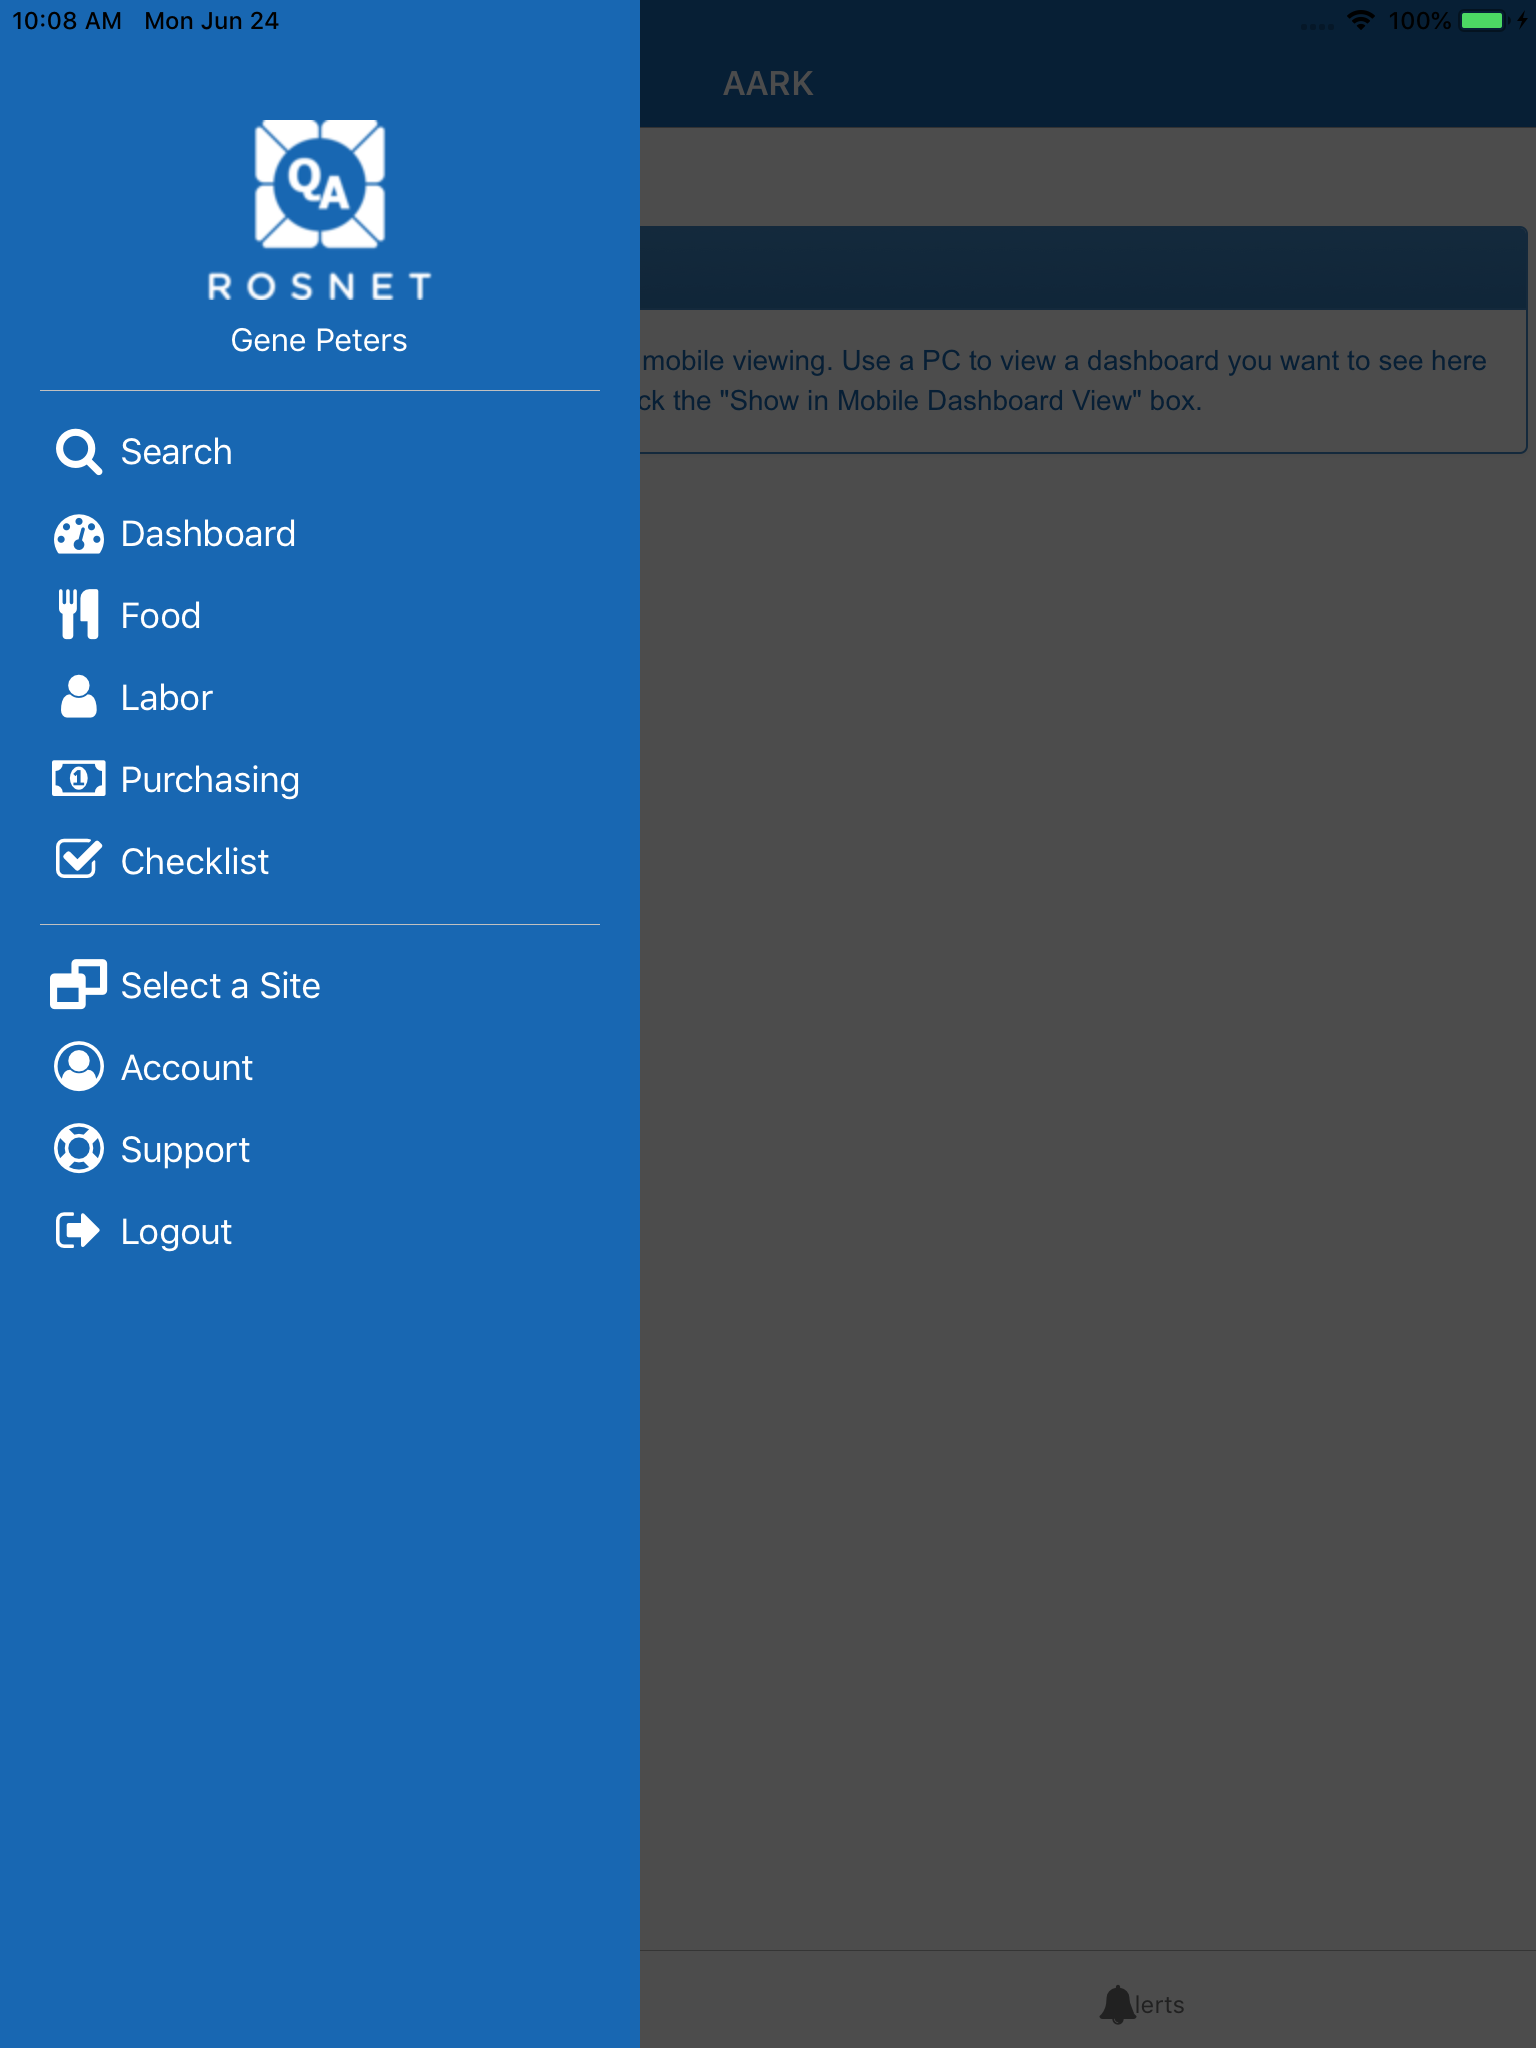
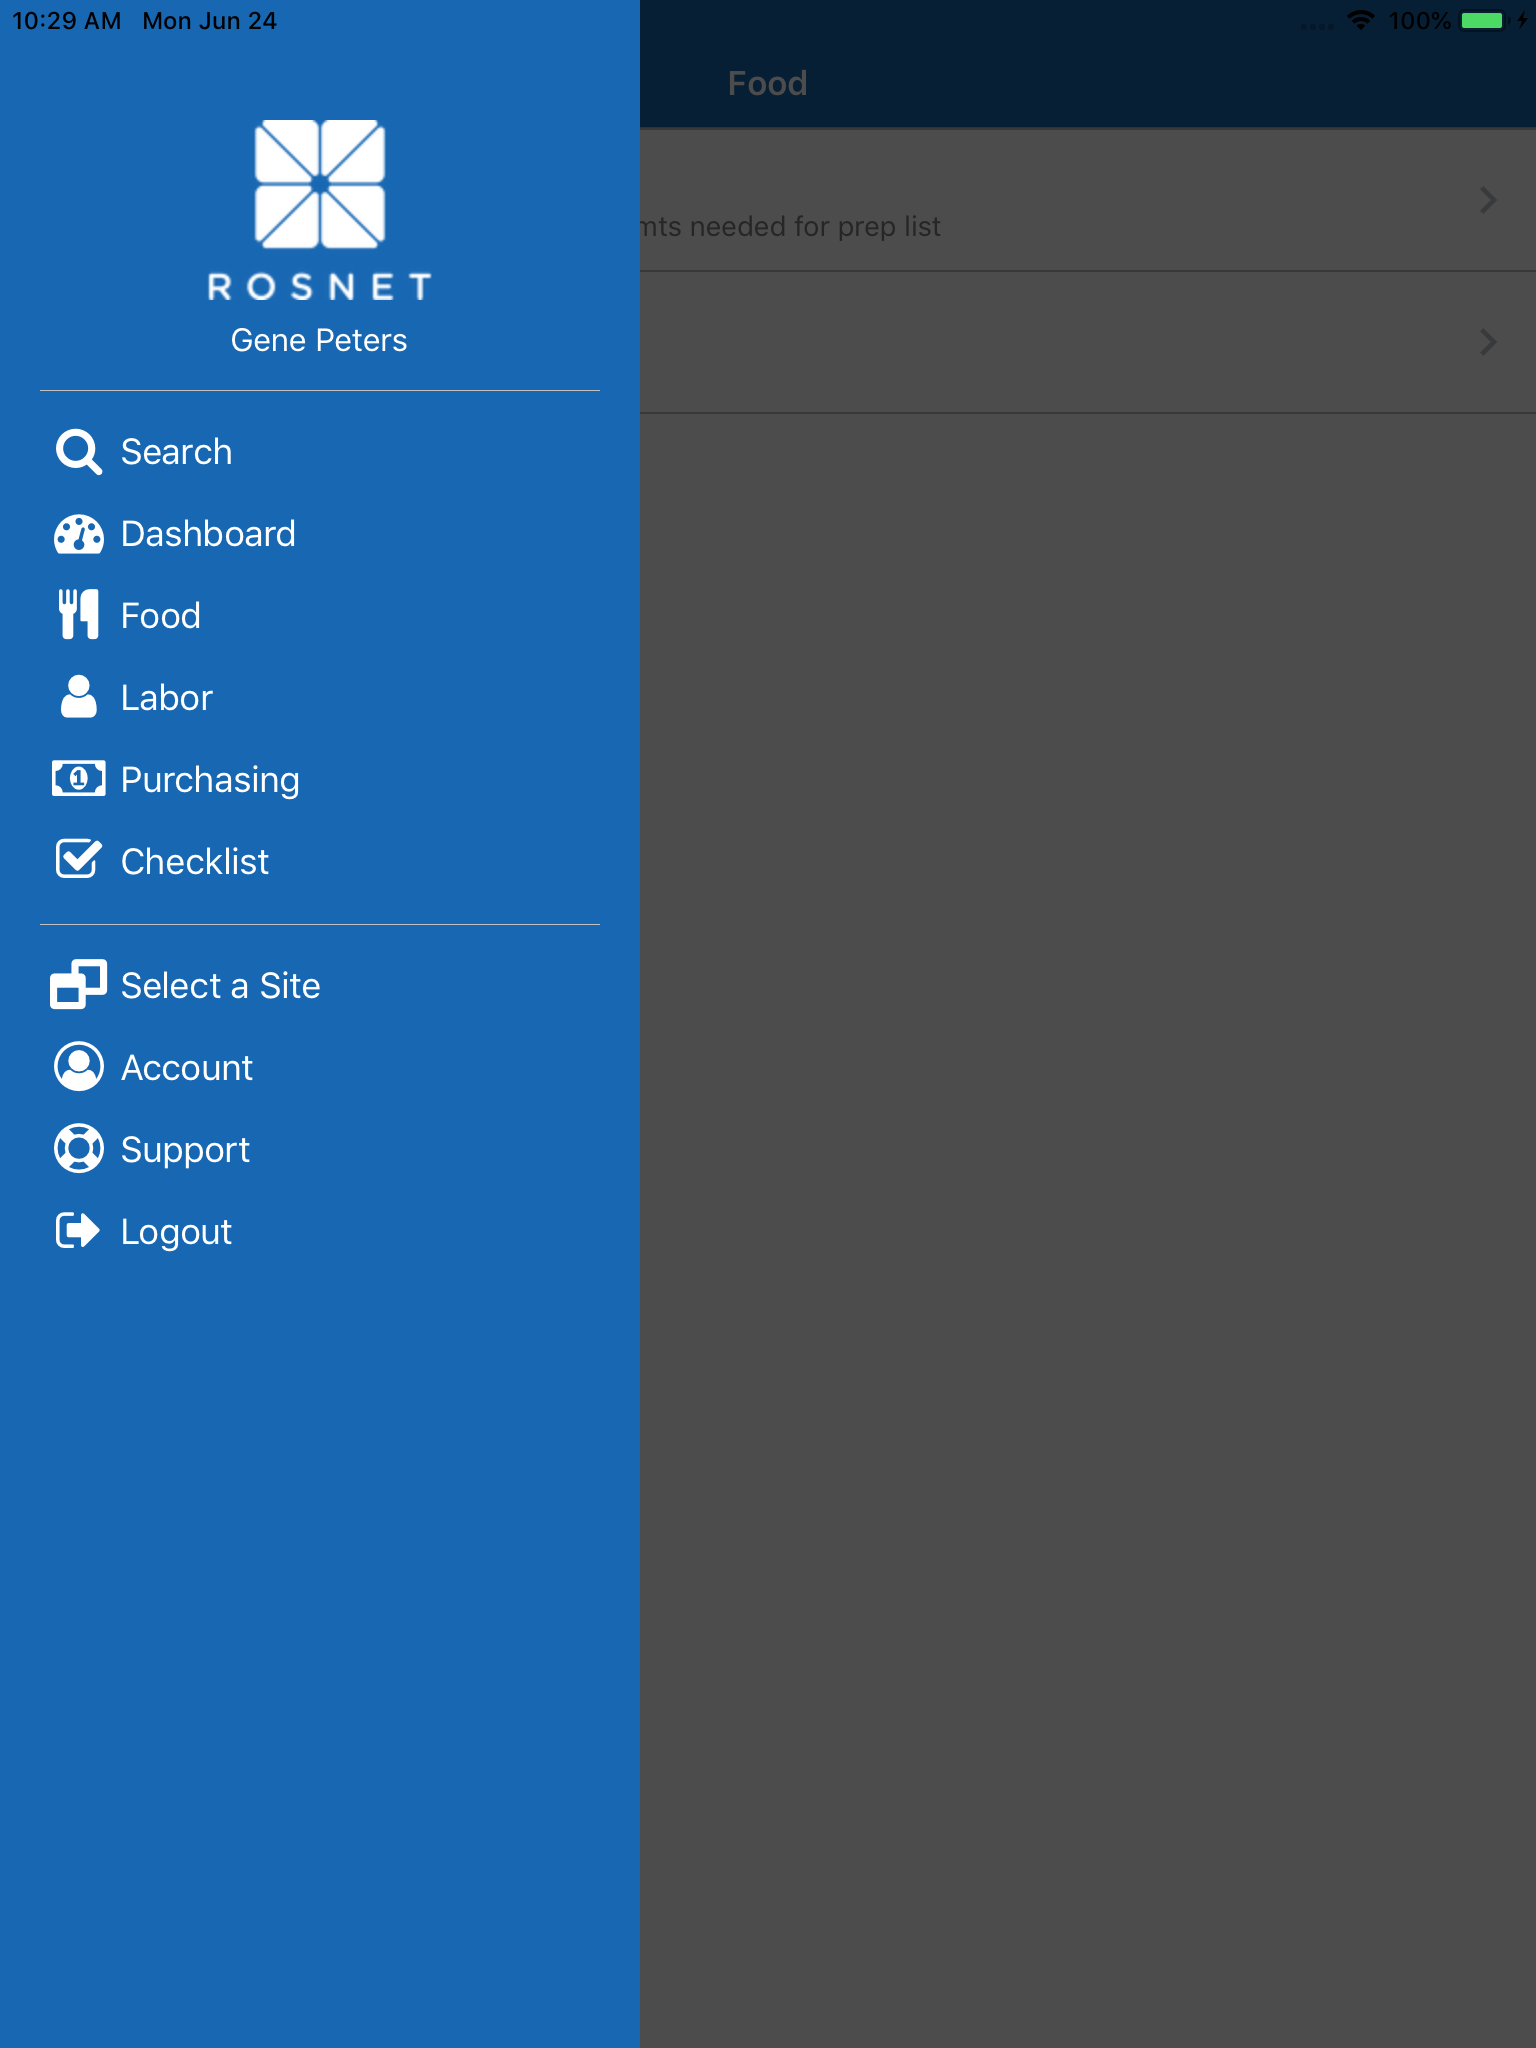
screenshots

diff --git a/App/Components/DrawerContainer.js b/App/Components/DrawerContainer.js
@@ -21,7 +21,7 @@ export default class DrawerContainer extends React.Component {
     super(props);
     this.state = {
       backgroundColor : brand.colors.primary,
-      isQA: this.props.screenProps.state.isQA
+      isQA: false //this.props.screenProps.state.isQA
     }
   }
 
@@ -202,7 +202,7 @@ export default class DrawerContainer extends React.Component {
                         alignContent: 'space-between', 
                         marginTop: 5 }}>
           <Text style={{ margin: 5, color: 'white', fontSize: 16 }}>
-           {this.props.screenProps.state.userData.commonName}
+           Gene Peters
            </Text>
            {this.props.screenProps.state.superUser && 
             <FontAwesome name={'undo'} size={20} style={{ margin: 5, color: brand.colors.white}}
@@ -274,14 +274,14 @@ export default class DrawerContainer extends React.Component {
             /> 
            } 
 
-            {this.props.screenProps.state.userData.isRosnetEmployee &&  
+            {/* {this.props.screenProps.state.userData.isRosnetEmployee &&  
             <DrawerLabel
               icon={'user-plus'}
               label={'Session Override'}
               routeName={'SessionOverride'}
               iconSize={25}
             /> 
-            }  
+            }   */}
           
           {/* // making sure userLevel exists - wont if user currently logged in */}
           {this.props.screenProps.state.userData.userLevel && 
